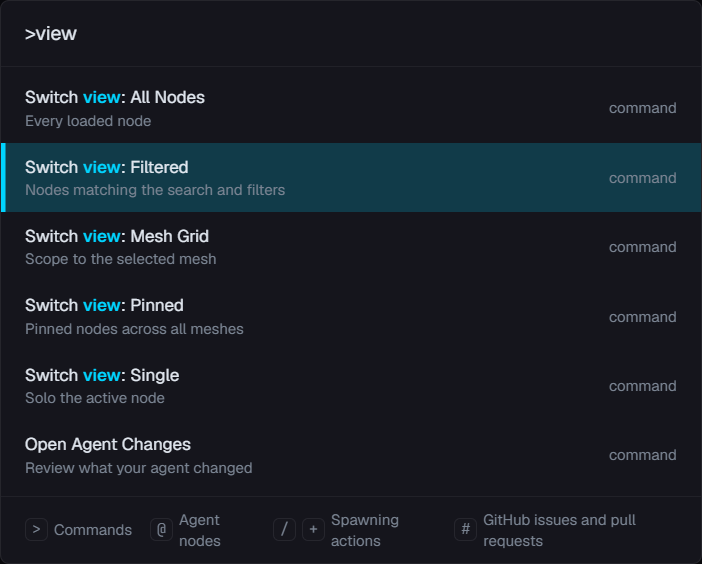
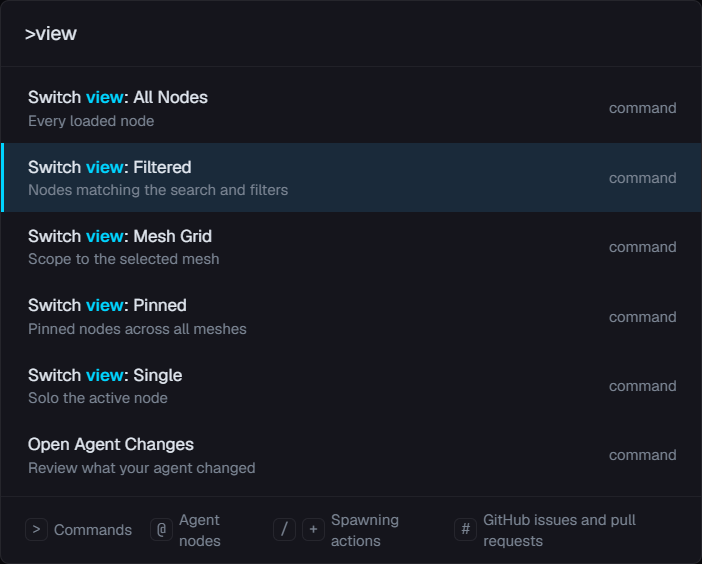
fix(omnibar): separate keyboard caret from hover; use selection token
Address PR #1641 review: do not mutate activeIndex on pointer enter
(scrollIntoView fights the wheel; parked cursor steals the caret).
Paint the keyboard-active row with bg-bg-selection + border-l-accent-cyan
so text-accent-cyan match marks stay legible, and keep hover CSS-only.
Assert aria/selection-token semantics instead of brittle Tailwind strings.

diff --git a/tests/unit/command-omnibar.test.tsx b/tests/unit/command-omnibar.test.tsx
@@ -235,9 +235,29 @@ describe('CommandOmnibar — WAI-ARIA combobox semantics', () => {
     expect(selected).toHaveLength(1);
   });
 
-  it('paints the keyboard-active row with a cyan-tinted selection, not bg-card', () => {
-    // Regression: active used `bg-bg-card` on `bg-bg-overlay` (~1/255 apart),
-    // which hid ArrowUp/Down. Active rows must use the accent fill.
+  it('keeps keyboard caret off the pointer — hover must not mutate activeIndex', () => {
+    // WAI-ARIA combobox: aria-activedescendant is keyboard-owned. Pointer
+    // enter must not call setActiveIndex (scrollIntoView fights the wheel,
+    // and a parked cursor steals the caret during ArrowUp/Down).
+    render(<CommandOmnibar />);
+    openOmnibar('commands');
+    type('>view');
+    const rows = options();
+    expect(rows.length).toBeGreaterThan(1);
+    const input = screen.getByRole('combobox');
+    const before = input.getAttribute('aria-activedescendant');
+    expect(before).toBe(rows[0].id);
+
+    fireEvent.mouseEnter(rows[1]);
+    expect(input.getAttribute('aria-activedescendant')).toBe(before);
+    expect(rows[0].getAttribute('aria-selected')).toBe('true');
+    expect(rows[1].getAttribute('aria-selected')).toBe('false');
+  });
+
+  it('paints the keyboard-active row with the selection surface, not bg-card or cyan wash', () => {
+    // Active used bg-bg-card on bg-bg-overlay (~1/255). Must use the
+    // semantic selection token so text-accent-cyan match marks stay legible
+    // (a cyan wash on cyan marks fails contrast).
     render(<CommandOmnibar />);
     openOmnibar('commands');
     type('>view');
@@ -249,23 +269,13 @@ describe('CommandOmnibar — WAI-ARIA combobox semantics', () => {
     expect(active).toBeTruthy();
     expect(idle).toBeTruthy();
 
-    expect(active!.className).toMatch(/\bbg-accent-cyan\/20\b/);
-    expect(active!.className).toMatch(/shadow-\[inset_3px_0_0_0_var\(--color-accent-cyan\)\]/);
-    expect(active!.className).not.toMatch(/\bbg-bg-card\b/);
-    expect(idle!.className).not.toMatch(/\bbg-accent-cyan\/20\b/);
-  });
-
-  it('moves the keyboard caret when the pointer enters a row', () => {
-    render(<CommandOmnibar />);
-    openOmnibar('commands');
-    type('>view');
-    const rows = options();
-    expect(rows.length).toBeGreaterThan(1);
-    fireEvent.mouseEnter(rows[1]);
-    expect(rows[1].getAttribute('aria-selected')).toBe('true');
-    expect(
-      screen.getByRole('combobox').getAttribute('aria-activedescendant'),
-    ).toBe(rows[1].id);
+    // Semantic surface token from App.css — not a one-off cyan fill.
+    expect(active!.className.split(/\s+/)).toContain('bg-bg-selection');
+    expect(active!.className.split(/\s+/)).not.toContain('bg-bg-card');
+    expect(active!.className).not.toMatch(/bg-accent-cyan\//);
+    // Idle hover is CSS-only; keyboard paint stays off idle rows.
+    expect(idle!.className.split(/\s+/)).toContain('hover:bg-bg-card-hover');
+    expect(idle!.className.split(/\s+/)).not.toContain('bg-bg-selection');
   });
 
   it('reports the discovery grid as the combobox popup for an empty files query', () => {

diff --git a/src/components/CommandOmnibar/CommandOmnibar.tsx b/src/components/CommandOmnibar/CommandOmnibar.tsx
@@ -420,9 +420,6 @@ function OmnibarPalette({ mode, onClose }: { mode: OmnibarMode; onClose: () => v
                 // mousedown preventDefault keeps the input focused — the
                 // combobox owns focus for the palette's whole lifetime.
                 onMouseDown={(e) => e.preventDefault()}
-                // Hover moves the keyboard caret so Enter and the cyan
-                // highlight always describe the same row.
-                onMouseEnter={() => setActiveIndex(i)}
                 onClick={() => executeItem(result.item)}
               />
             ))}
@@ -582,14 +579,12 @@ function ResultRow({
   active,
   index,
   onMouseDown,
-  onMouseEnter,
   onClick,
 }: {
   result: FuzzyResult;
   active: boolean;
   index: number;
   onMouseDown: (e: ReactMouseEvent) => void;
-  onMouseEnter: () => void;
   onClick: () => void;
 }) {
   const { item } = result;
@@ -618,15 +613,16 @@ function ResultRow({
       role="option"
       aria-selected={active}
       onMouseDown={onMouseDown}
-      onMouseEnter={onMouseEnter}
       onClick={onClick}
       data-testid="command-omnibar-option"
-      className={`flex items-center gap-3 px-4 py-2 cursor-pointer transition-colors ${
-        // Cyan fill + inset accent bar. Plain `bg-bg-card` on the overlay
-        // shell (#16161d on #15151c) was ~1/255 apart and hid ArrowUp/Down.
+      className={`flex items-center gap-3 px-4 py-2 cursor-pointer border-l-2 transition-colors ${
+        // Keyboard caret uses the semantic selection surface (dark #1a2a3a /
+        // light #cce8ff) so text-accent-cyan match marks stay legible.
+        // Hover is CSS-only — never mutates activeIndex (WAI-ARIA combobox).
+        // Transparent idle border keeps row width stable with the active bar.
         active
-          ? 'bg-accent-cyan/20 shadow-[inset_3px_0_0_0_var(--color-accent-cyan)]'
-          : ''
+          ? 'bg-bg-selection border-l-accent-cyan'
+          : 'border-l-transparent hover:bg-bg-card-hover'
       }`}
     >
       <div className="flex-1 min-w-0">
